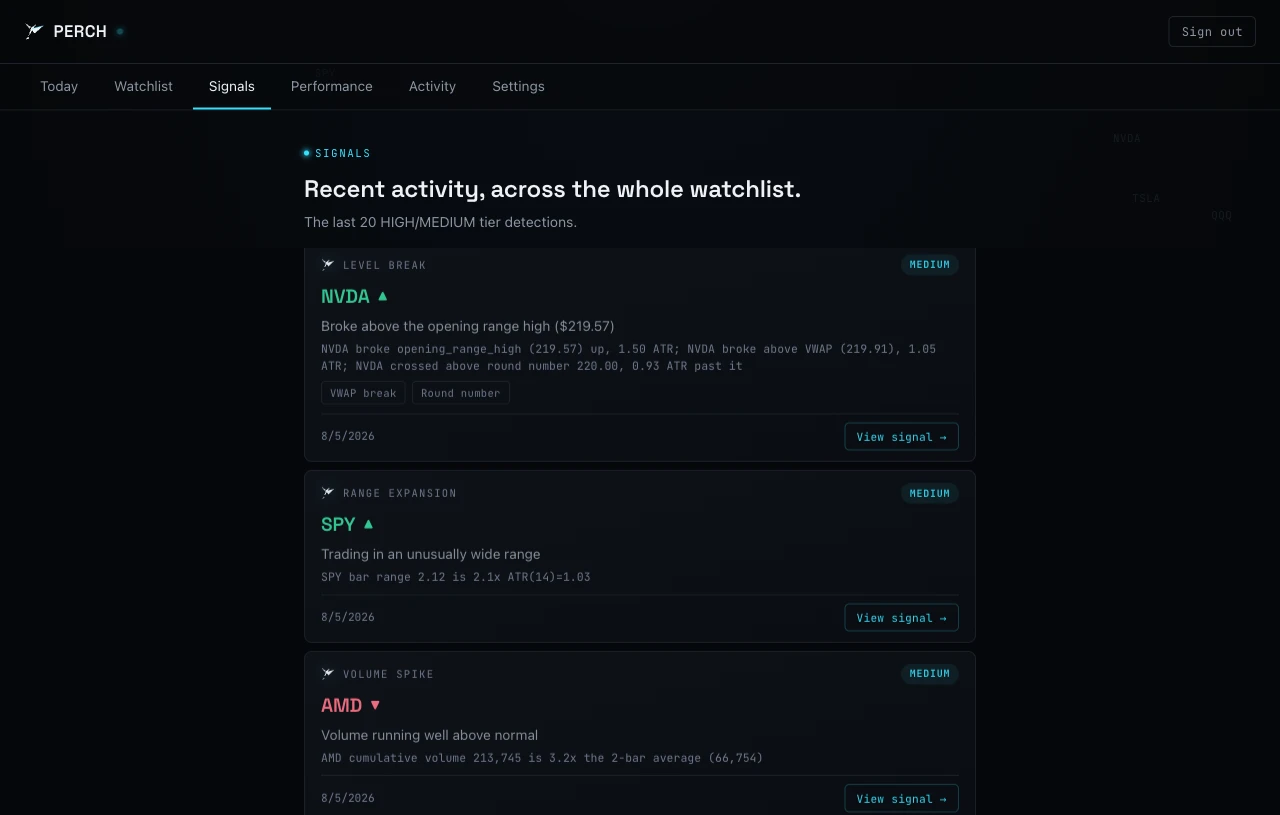
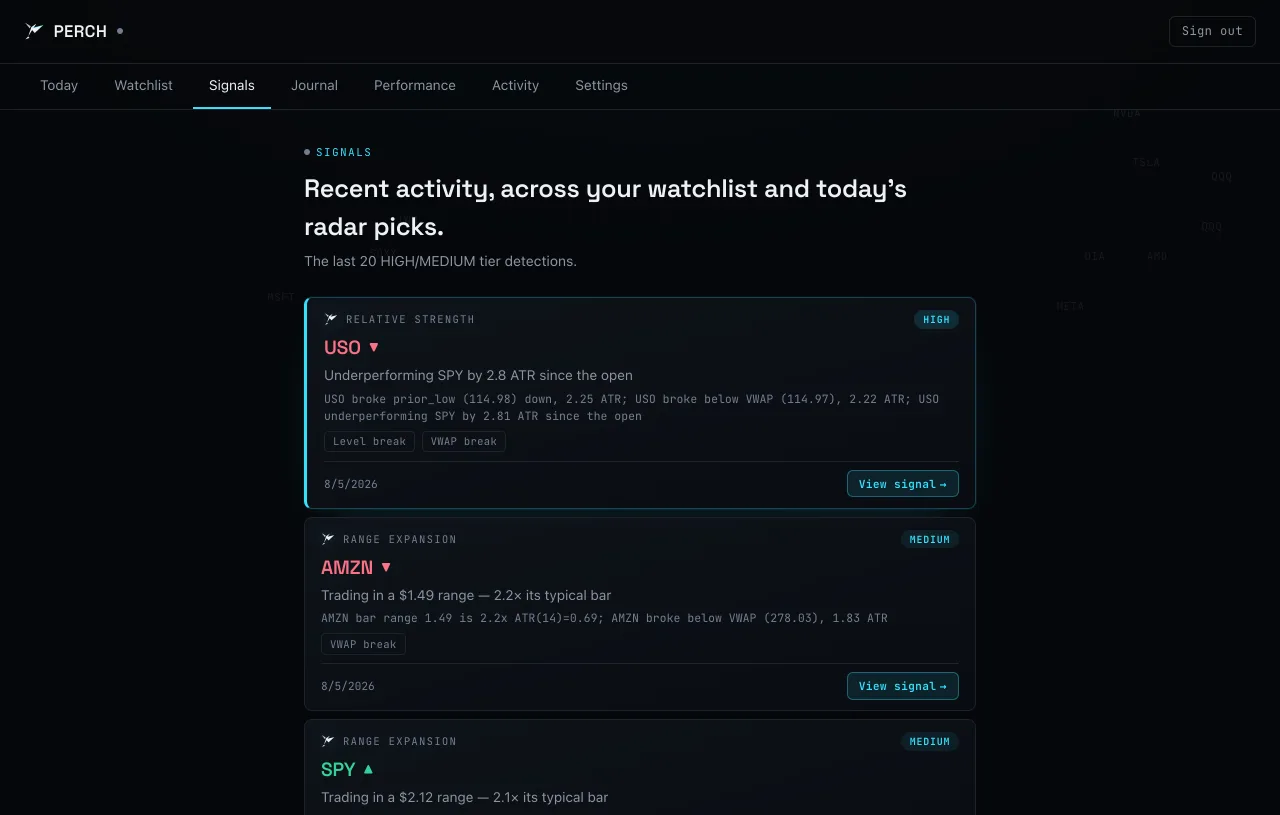
Landing: regenerate the ProductInterface embed against the elevated card design (L9)
Per the component's own documented process: throwaway users DB, a
trimmed copy of the real dev journal.db, the real API
(tradebot.api.app.create_app) and the real dashboard dev server -- no
route mocking. The window is a real varied stretch of the 2026-08-05
session (the same session the August design review's fixtures used):
one HIGH USO relative-strength cluster -- rendered as one card with
level-break + VWAP-break tags by the Phase 2 duplicate-collapse -- and
AMZN/SPY range expansions, all with the numbered plain-English
headlines M5 shipped. Account email redacted from the topbar, per
process; alt text refreshed to match the actual frame.

Captured by web-app/scripts/capture-l9-embed.mjs; encoded 2x -> 1280
by scripts/png-to-webp.mjs (Chromium canvas -- no native webp encoder
on this machine). 1280x815 webp, 31KB (was 35KB).

Closes the last design-review item (L9); the elevation program's
consistency-map-rerun.md ledger is now fully green.

diff --git a/web/src/components/ProductInterface.jsx b/web/src/components/ProductInterface.jsx
@@ -43,7 +43,7 @@ export default function ProductInterface() {
         <div className="pi-frame">
           <img
             src="/brand/product-interface.webp"
-            alt="The Perch dashboard Signals tab, showing three real signal cards: an NVDA level break, an SPY range expansion, and an AMD volume spike, each with a tier badge and plain-English headline"
+            alt="The Perch dashboard Signals tab, showing three real signal cards: a HIGH-tier USO relative-strength signal with level-break and VWAP-break tags, an AMZN range expansion, and an SPY range expansion, each with a tier badge and a plain-English headline carrying the signal's own numbers"
             loading="lazy"
             width="1280"
             height="815"
